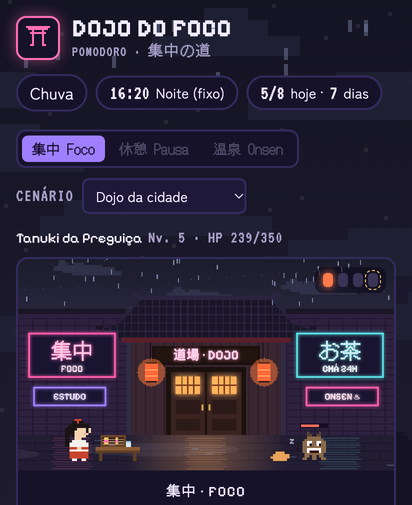
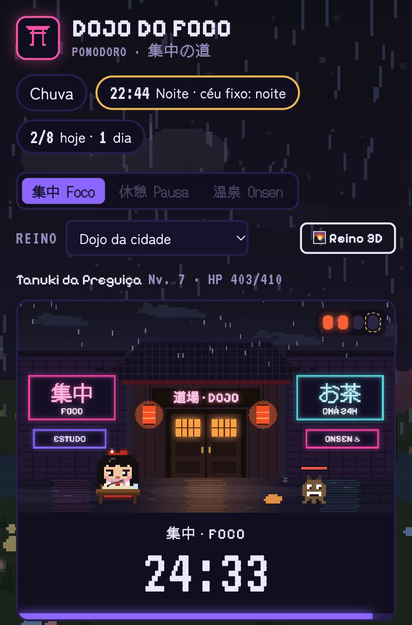
Troca as fotos do README pelas personagens chibi de frente
Banner, GIF, tela do dojo, tela de personagens, os 13 cenários e as
duas telas de celular, cada cenário com uma personagem diferente.

diff --git a/README.md b/README.md
@@ -1,6 +1,6 @@
 <div align="center">
 
-<img src="docs/banner.png" alt="A miko Sakura estuda numa mesinha em frente ao dojo, à noite, debaixo de chuva, com letreiros de neon e um yōkai à direita. O timer marca 16:49." width="100%">
+<img src="docs/banner.png" alt="A miko Sakura, chibi e de frente, lê um livro atrás da mesinha em frente ao dojo, à noite, debaixo de chuva, com letreiros de neon e um yōkai à direita. O timer marca 24:38." width="100%">
 
 # Dojo do Foco 道場
 
@@ -22,7 +22,7 @@ toma chá na pausa curta e entra no onsen na pausa longa.
 <br>
 
 <div align="center">
-  <img src="docs/demo.gif" alt="Animação: batalha no dojo com chuva, chá no bosque de bambu, os reinos novos (floresta dos vagalumes, ilhas flutuantes, terraço neon, casa de chá nas nuvens, janela do Fuji e café do canal), o onsen com neve e o reino em 3D" width="88%">
+  <img src="docs/demo.gif" alt="Animação com dez reinos e uma personagem diferente em cada: Sakura no dojo com chuva, Kiko tomando chá no bambu, Sora no templo, Hana na floresta dos vagalumes, Rin nas ilhas flutuantes, Nami no terraço neon, Taro na casa de chá nas nuvens, Hoshi na janela do Fuji, Akane no café do canal e Yuki no onsen com neve" width="88%">
 </div>
 
 <br>
@@ -41,7 +41,7 @@ Abra **<http://localhost:4321>**. No VS Code também dá para usar **Executar e 
 
 ## 🎮 O jogo
 
-<img src="docs/telas/dojo.png" alt="Tela do Dojo: cena do dojo à noite com chuva, timer, caixa de diálogo com o plano da batalha, cartão da personagem e próxima ação." width="100%">
+<img src="docs/telas/dojo.png" alt="Tela do Dojo: cena do dojo à noite com chuva e a Sakura lendo de frente atrás da mesinha, timer, caixa de diálogo com o plano da batalha, a carta da personagem e a próxima ação." width="100%">
 
 | | |
 | --- | --- |
@@ -70,28 +70,28 @@ São 11 reinos. Troque no seletor acima da cena ou na aba **Jogo**. Todos acompa
 
 <table>
   <tr>
-    <td width="50%"><img src="docs/cenarios/dojo.png" alt="Dojo da cidade à noite com chuva"><br><b>Dojo da cidade</b> · letreiros de neon e lanternas</td>
-    <td width="50%"><img src="docs/cenarios/bambu.png" alt="Bosque de bambu de dia, com a personagem tomando chá com o mestre"><br><b>Bosque de bambu</b> · lanternas de pedra e vaga-lumes à noite</td>
+    <td width="50%"><img src="docs/cenarios/dojo.png" alt="Dojo da cidade à noite com chuva, com a Sakura lendo"><br><b>Dojo da cidade</b> · letreiros de neon e lanternas</td>
+    <td width="50%"><img src="docs/cenarios/bambu.png" alt="Bosque de bambu de dia, com o Kiko tomando chá com o mestre"><br><b>Bosque de bambu</b> · lanternas de pedra e vaga-lumes à noite</td>
   </tr>
   <tr>
-    <td><img src="docs/cenarios/templo.png" alt="Templo na montanha ao pôr do sol, com torii vermelho e monte Fuji"><br><b>Templo na montanha</b> · torii, escadaria e o monte Fuji</td>
-    <td><img src="docs/cenarios/rua.png" alt="Rua de Tóquio à noite com prédios iluminados e placas de neon"><br><b>Rua de Tóquio</b> · placas de neon, máquina de bebidas e poste</td>
+    <td><img src="docs/cenarios/templo.png" alt="Templo na montanha ao pôr do sol, com torii vermelho, monte Fuji e o Sora escrevendo"><br><b>Templo na montanha</b> · torii, escadaria e o monte Fuji</td>
+    <td><img src="docs/cenarios/rua.png" alt="Rua de Tóquio à noite com prédios iluminados, placas de neon e o Jin no notebook"><br><b>Rua de Tóquio</b> · placas de neon, máquina de bebidas e poste</td>
   </tr>
   <tr>
-    <td><img src="docs/cenarios/sakura.png" alt="Jardim de sakura de dia com cerejeira, ponte vermelha e lago"><br><b>Jardim de sakura</b> · pétalas caindo, lago com carpas e ponte</td>
-    <td><img src="docs/cenarios/onsen-neve.png" alt="Onsen à noite com neve caindo no templo"><br><b>Onsen com neve</b> · a pausa longa, em qualquer reino</td>
+    <td><img src="docs/cenarios/sakura.png" alt="Jardim de sakura de dia com cerejeira, ponte vermelha, lago e a Mei lendo"><br><b>Jardim de sakura</b> · pétalas caindo, lago com carpas e ponte</td>
+    <td><img src="docs/cenarios/onsen-neve.png" alt="Onsen à noite com neve caindo no templo, com a Yuki na água quente"><br><b>Onsen com neve</b> · a pausa longa, em qualquer reino</td>
   </tr>
   <tr>
-    <td><img src="docs/cenarios/floresta.png" alt="Floresta dos vagalumes à noite, com a árvore gigante de janela acesa e porta azul brilhante"><br><b>Floresta dos vagalumes</b> · árvore-casa, lago e vaga-lumes</td>
-    <td><img src="docs/cenarios/ilhas.png" alt="Ilhas flutuantes ao pôr do sol, com castelo, cachoeiras e mar de nuvens"><br><b>Ilhas flutuantes</b> · castelo, cachoeiras, lanternas e aurora à noite</td>
+    <td><img src="docs/cenarios/floresta.png" alt="Floresta dos vagalumes à noite, com a árvore gigante de janela acesa, porta azul brilhante e a Hana revisando cartões"><br><b>Floresta dos vagalumes</b> · árvore-casa, lago e vaga-lumes</td>
+    <td><img src="docs/cenarios/ilhas.png" alt="Ilhas flutuantes ao pôr do sol, com castelo, cachoeiras, mar de nuvens e a Rin erguendo o arco contra o yōkai"><br><b>Ilhas flutuantes</b> · castelo, cachoeiras, lanternas e aurora à noite</td>
   </tr>
   <tr>
-    <td><img src="docs/cenarios/neon.png" alt="Terraço neon à noite com garoa, prédios iluminados e torre vermelha"><br><b>Terraço neon</b> · a cidade vista do telhado, com a torre ao fundo</td>
-    <td><img src="docs/cenarios/cha.png" alt="Casa de chá nas nuvens ao pôr do sol, com lanternas e carpas nadando nas nuvens"><br><b>Casa de chá nas nuvens</b> · lanternas e carpas nadando no céu</td>
+    <td><img src="docs/cenarios/neon.png" alt="Terraço neon à noite com garoa, prédios iluminados, torre vermelha e a Nami no notebook"><br><b>Terraço neon</b> · a cidade vista do telhado, com a torre ao fundo</td>
+    <td><img src="docs/cenarios/cha.png" alt="Casa de chá nas nuvens ao pôr do sol, com lanternas, carpas nadando nas nuvens e o Taro tomando chá com o mestre"><br><b>Casa de chá nas nuvens</b> · lanternas e carpas nadando no céu</td>
   </tr>
   <tr>
-    <td><img src="docs/cenarios/janela.png" alt="Janela do Fuji de dia, uma sala com shoji olhando o monte Fuji, a vila e um pagode"><br><b>Janela do Fuji</b> · sala de tatame com vista para o monte</td>
-    <td><img src="docs/cenarios/canal.png" alt="Café do canal de dia, com café de madeira, bicicleta, cerejeiras e canal de pedras"><br><b>Café do canal</b> · café, bicicleta e cerejeiras na beira da água</td>
+    <td><img src="docs/cenarios/janela.png" alt="Janela do Fuji de dia, uma sala com shoji olhando o monte Fuji, a vila, um pagode e o Hoshi escrevendo"><br><b>Janela do Fuji</b> · sala de tatame com vista para o monte</td>
+    <td><img src="docs/cenarios/canal.png" alt="Café do canal de dia, com café de madeira, bicicleta, cerejeiras, canal de pedras e a Akane atacando o yōkai com o martelo"><br><b>Café do canal</b> · café, bicicleta e cerejeiras na beira da água</td>
   </tr>
 </table>
 
@@ -106,13 +106,13 @@ Atrás do jogo, uma paisagem em 3D do mesmo reino se move devagar: ilhas que flu
 O 3D é feito com three.js, carregado do cdnjs. Se o computador não der conta, o jogo entra sozinho num modo leve, com menos quadros e menos pixels. Se ainda assim travar, ele pausa o 3D e avisa. Também dá para desligar em **Jogo → Reino**. Sem internet ou sem WebGL, o jogo volta para o fundo em pixel art.
 
 <div align="center">
-  <img src="docs/cenarios/tempestade.png" alt="Dojo ao pôr do sol durante uma tempestade" width="60%"><br>
-  <sub>O clima muda tudo: aqui, uma tempestade no fim da tarde.</sub>
+  <img src="docs/cenarios/tempestade.png" alt="Dojo ao pôr do sol durante uma tempestade, com a Aiko escrevendo" width="60%"><br>
+  <sub>O clima muda tudo: aqui, uma tempestade no fim da tarde, com a Aiko.</sub>
 </div>
 
 ## 🥷 Personagens
 
-<img src="docs/telas/personagens.png" alt="Tela de Personagens: editor com retrato, identidade, classe, arma e habilidade, e ao lado o elenco com seis personagens." width="100%">
+<img src="docs/telas/personagens.png" alt="Tela de Personagens: editor com o retrato chibi da Sakura, identidade, classe, arma e habilidade, e ao lado o elenco com Sakura, Kiko, Yuki, Kenji, Hana e Taro." width="100%">
 
 Crie quantas personagens quiser, do zero ou a partir de **14 modelos prontos**, e mude tudo nelas:
 
@@ -186,9 +186,9 @@ Na aba **Jogo** você ajusta os tempos (15/5, 25/5, 50/10 ou do seu jeito), a me
 ### No celular
 
 <p align="center">
-  <img src="docs/telas/celular-dia.png" alt="Jogo no celular de dia, no jardim de sakura" width="260">
+  <img src="docs/telas/celular-dia.png" alt="Jogo no celular de dia, no jardim de sakura, com a Mei lendo" width="260">
   &nbsp;&nbsp;
-  <img src="docs/telas/celular-noite.png" alt="Jogo no celular à noite, no dojo com chuva" width="260">
+  <img src="docs/telas/celular-noite.png" alt="Jogo no celular à noite, no dojo com chuva, com a Sakura escrevendo" width="260">
 </p>
 
 ## 📁 Salvamento no Obsidian
